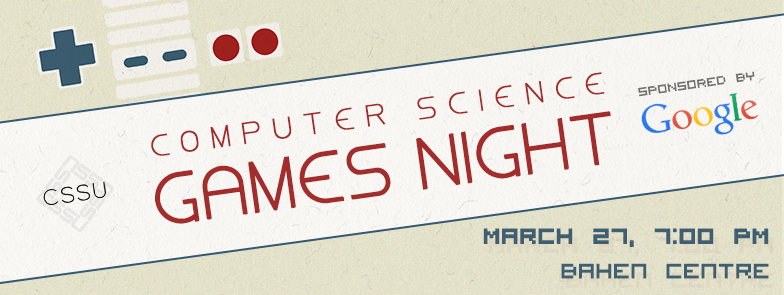
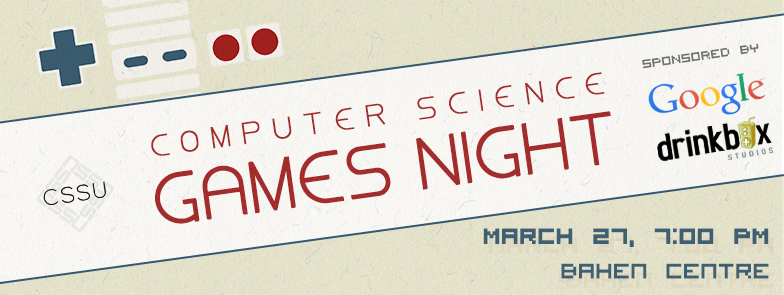
Updated Games Night page

Changed region(s): [[0.7959, 0.2441, 1.0, 0.5492], [0.7959, 0.1525, 0.9796, 0.2441]]

diff --git a/_posts/events/2015-03-27-games-night.md b/_posts/events/2015-03-27-games-night.md
@@ -11,7 +11,11 @@ categories: events
 
 On March 27th, join us in Bahen to relax and play some of your favorite video/board games. We will also be running a Smash tournament during the night so be sure to come sign up!
 
-Rooms will be ready at 7:00pm.
+Rooms will be ready at 7:00pm, and will begin closing towards 2:00am.
+
+NEW THIS YEAR! We will be having a Jam Session room in the undergraduate lounge! Bring your musical self and enjoy a local jam with local talents like yourself!
+
+We are also pleased to announce that Drinkbox Studios, a local game company will be joining us at our event! Please keep an eye out for them and chat them up!
 
 Become the champion.
 
